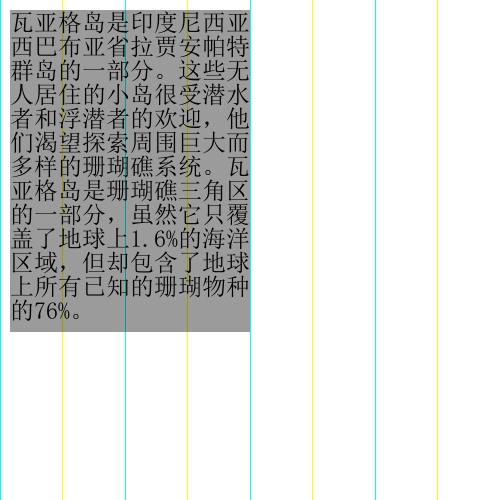
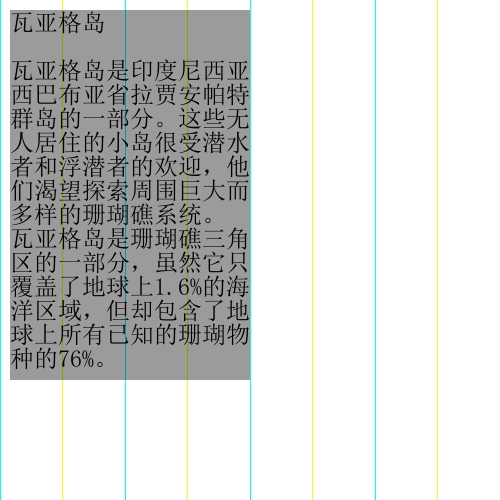
Handle line breakers

Changed region(s): [[0.0, 0.0, 0.51, 0.78]]

diff --git a/main.go b/main.go
@@ -86,7 +86,12 @@ func wordWrap(text string, width int, ff font.Face) []string {
 		if lineWidth+advance < fixed.I(width) {
 			line += string(r)
 			lineWidth += advance
-			if i == len(rs)-1 {
+			if r == '\n' { // handle line breakers
+				lines = append(lines, line)
+				line = ""
+				lineWidth = fixed.I(0)
+			}
+			if i == len(rs)-1 { // last loop
 				lines = append(lines, line)
 			}
 		} else {
@@ -127,7 +132,10 @@ func drawTextWordWrap(canvas draw.Image, lines []string, ff font.Face, x, y int)
 func main() {
 	const w, h = 500, 500
 	const leftMargin, rightMargin = 10, 10
-	const text = `瓦亚格岛是印度尼西亚西巴布亚省拉贾安帕特群岛的一部分。这些无人居住的小岛很受潜水者和浮潜者的欢迎，他们渴望探索周围巨大而多样的珊瑚礁系统。瓦亚格岛是珊瑚礁三角区的一部分，虽然它只覆盖了地球上1.6%的海洋区域，但却包含了地球上所有已知的珊瑚物种的76%。`
+	const text = `瓦亚格岛
+	
+瓦亚格岛是印度尼西亚西巴布亚省拉贾安帕特群岛的一部分。这些无人居住的小岛很受潜水者和浮潜者的欢迎，他们渴望探索周围巨大而多样的珊瑚礁系统。
+瓦亚格岛是珊瑚礁三角区的一部分，虽然它只覆盖了地球上1.6%的海洋区域，但却包含了地球上所有已知的珊瑚物种的76%。`
 	ff := fontFace("C:/Windows/Fonts/simsun.ttc", 24)
 	canvas := newCanvas(w, h)
 	lines := wordWrap(text, w/2, ff)
